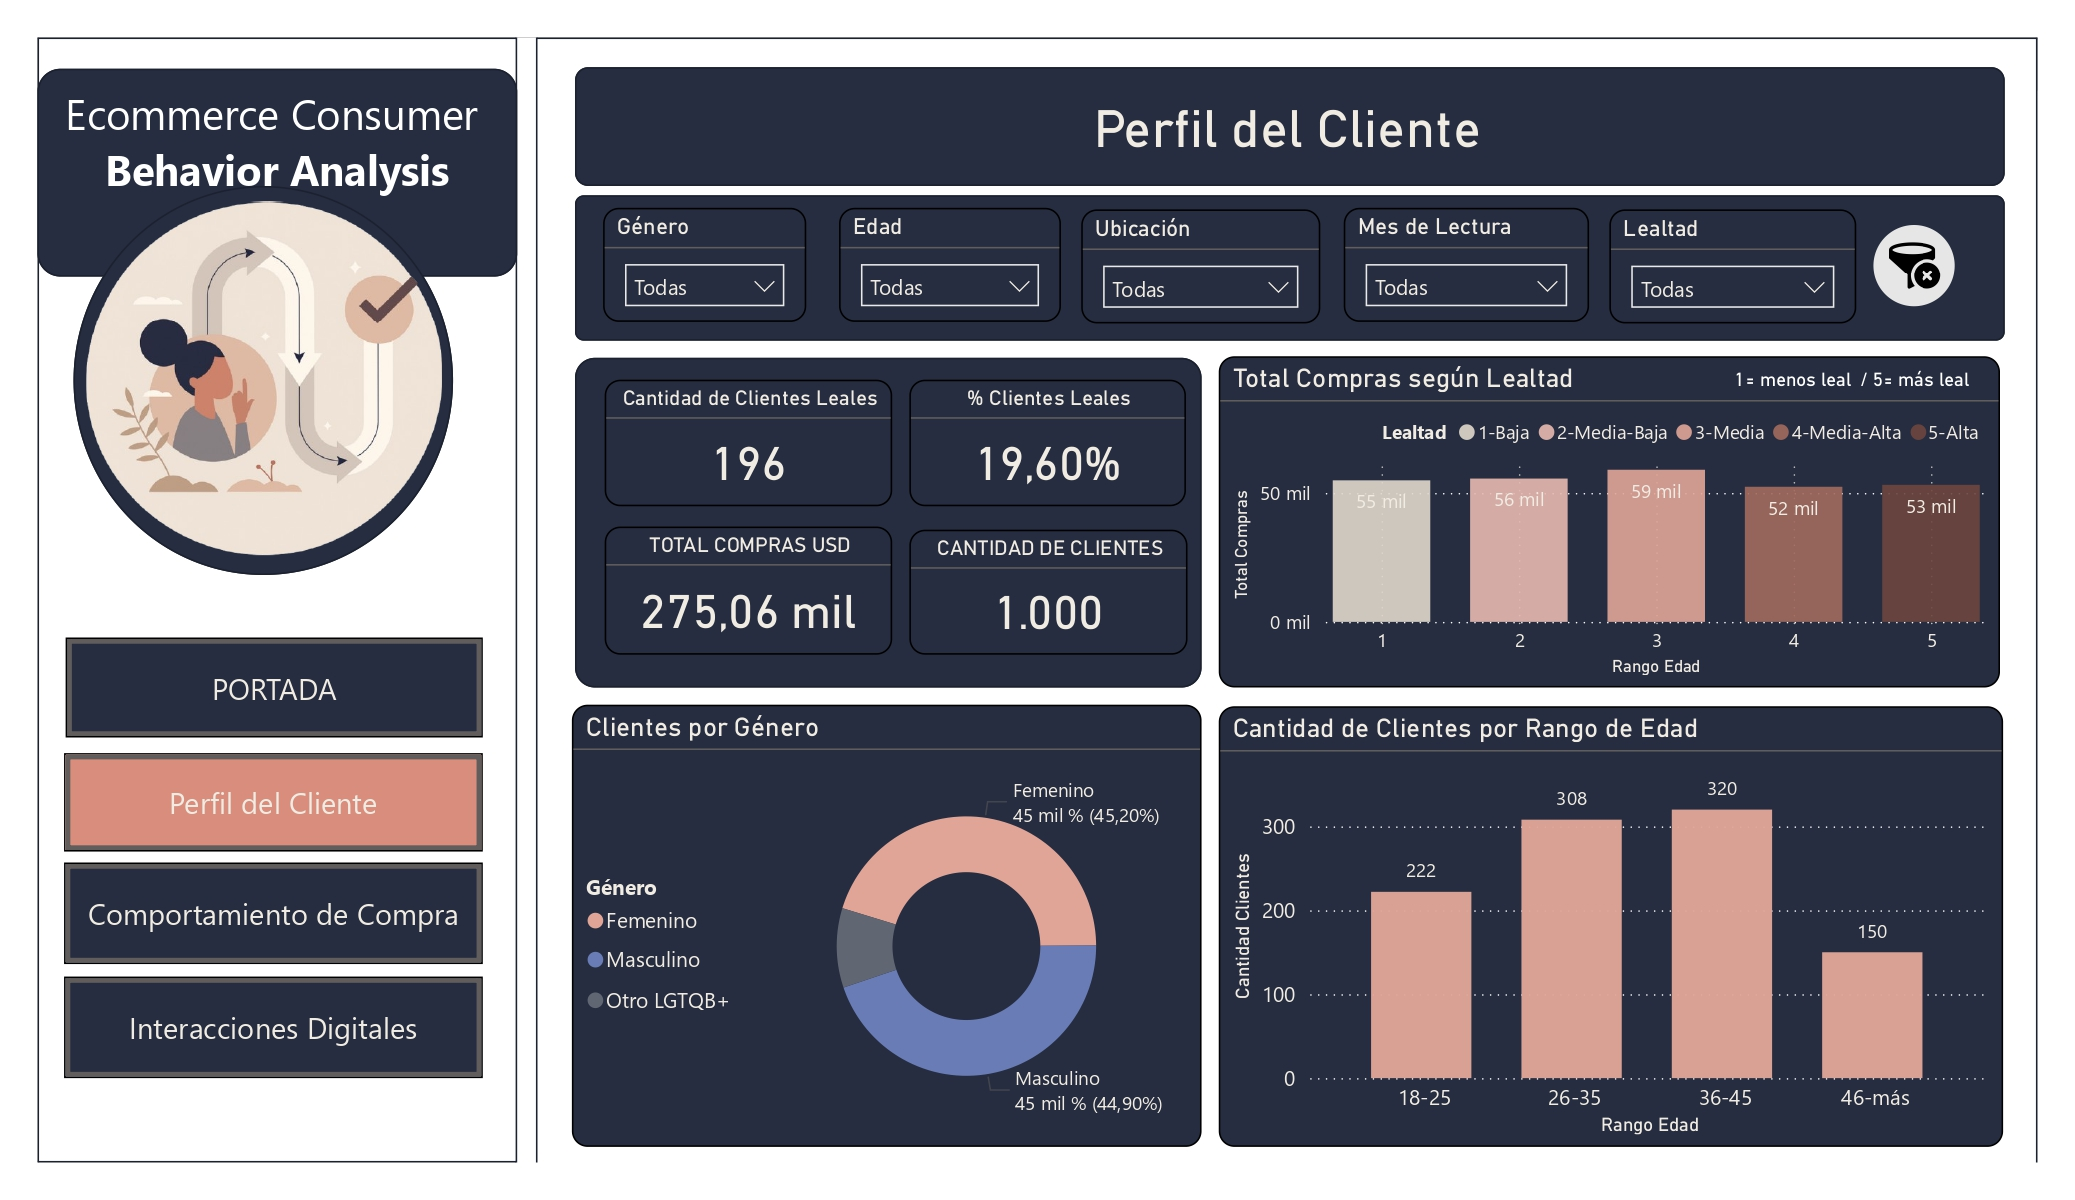
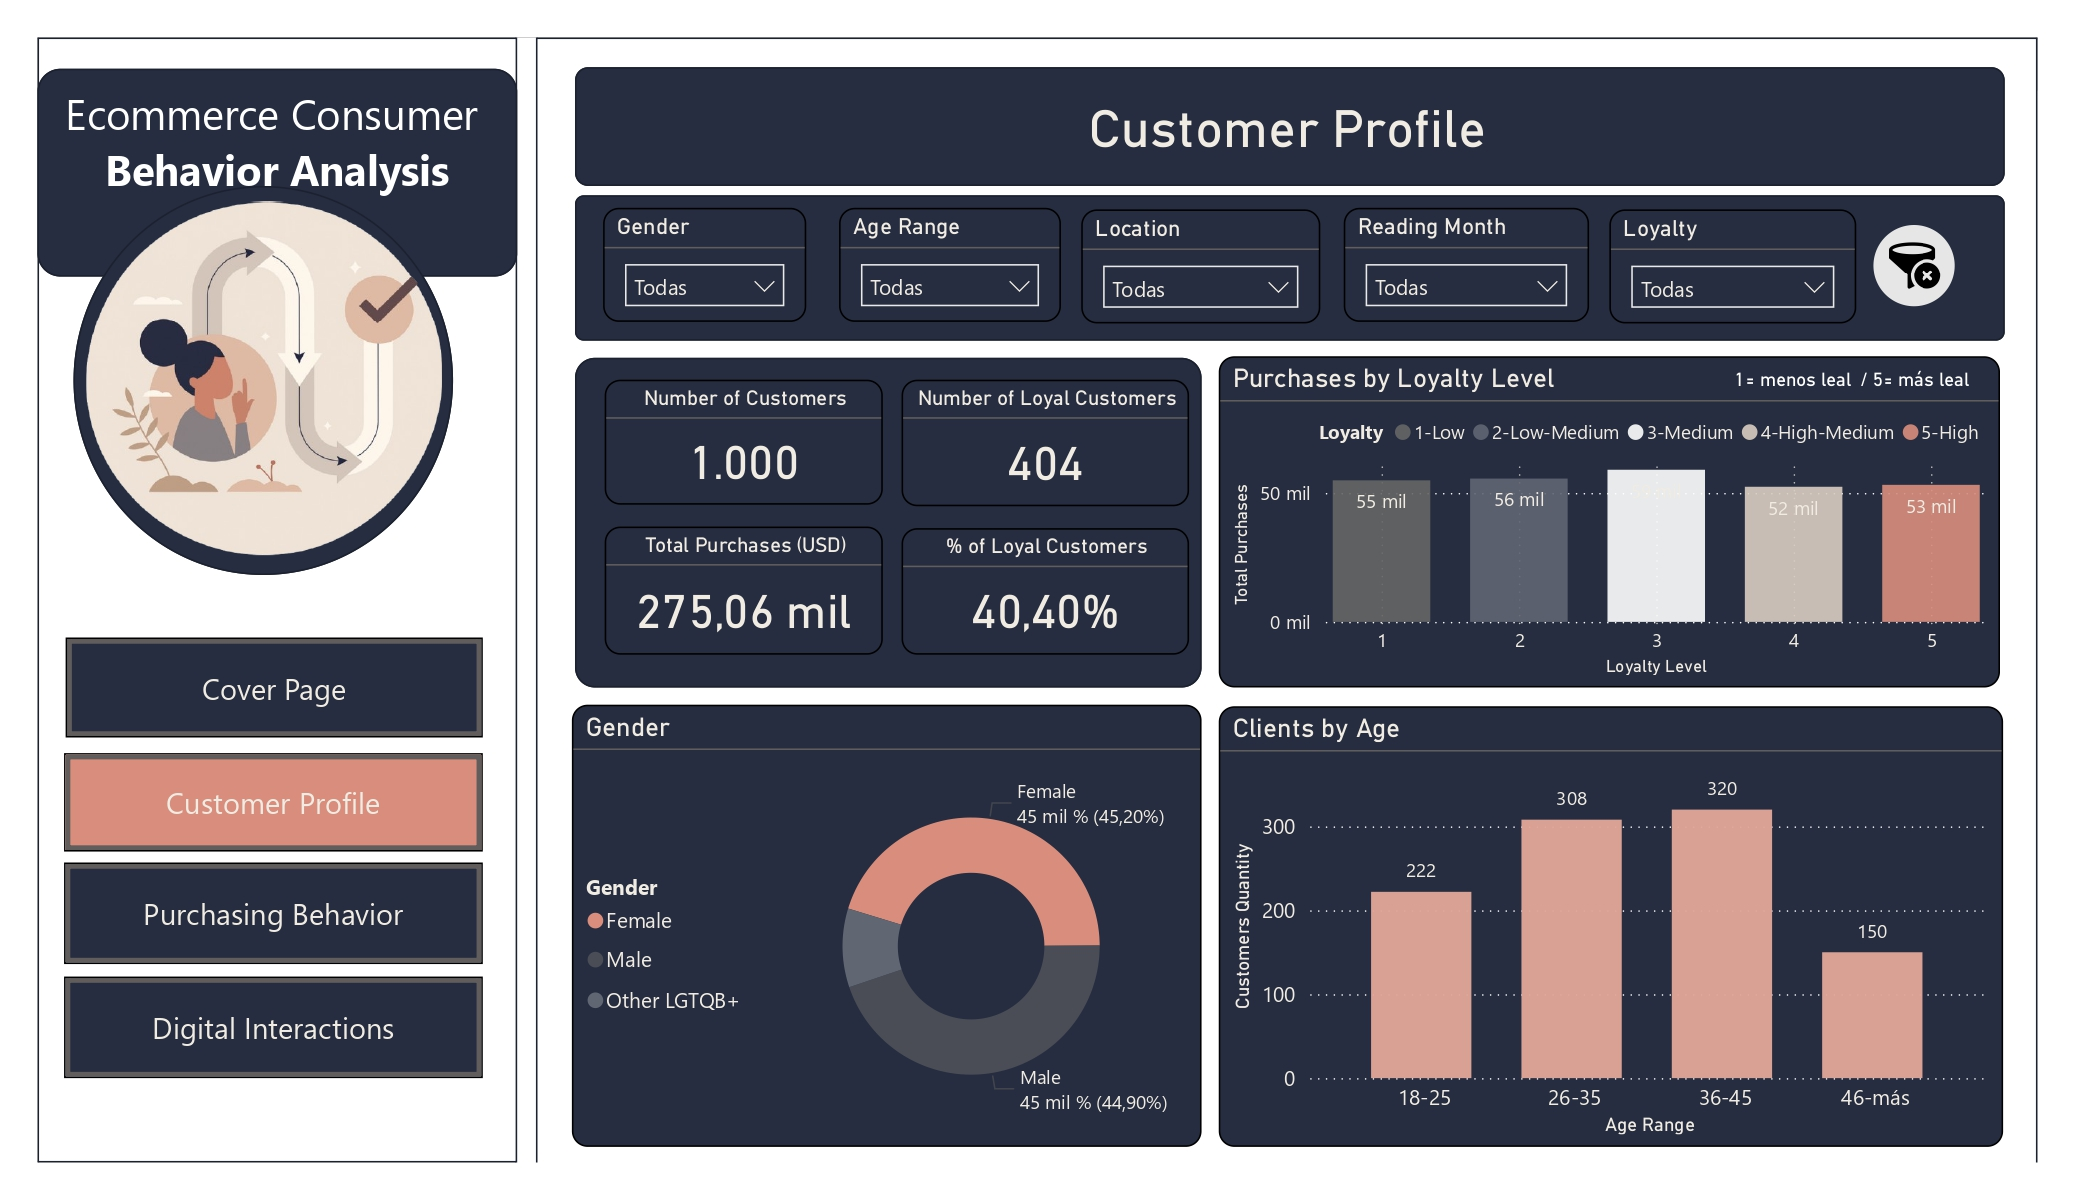
Readme and previews update

diff --git a/README.md b/README.md
@@ -35,10 +35,77 @@ It was built with a fully normalized dataset in Excel, custom KPIs using DAX, an
 
 ---
 
-## 📸 Dashboard Preview
+### 🔧 Data Normalization
+
+The original dataset contained redundant and denormalized structures, which could hinder performance and flexibility when building a relational data model. Therefore, a thorough normalization process was performed, resulting in a cleaner, more structured dataset.
+
+Key steps taken in the normalization:
+
+* **Splitting large tables**: The original dataset had multiple attributes grouped into a single table (e.g., client details, purchase records, product info). These were separated into distinct entities:
+
+  * `Clients`: Contains unique customer identifiers and demographic information.
+  * `Purchases`: Captures each transaction with purchase-specific details.
+  * `Products` / `Purchase Categories`: Includes item categories, subcategories, and pricing.
+  * `Interactions`: Captures engagement-related metrics (ads, satisfaction, research time).
+* **Eliminating repetition**: Repeated values such as gender, category names, payment methods, and countries were abstracted into dimension tables.
+* **Creating relationships**: Primary and foreign keys were defined (e.g., Customer\_ID, Product\_ID) to support referential integrity between tables.
+* **Date handling**: A separate **calendar table** was created using Power Query to ensure proper handling of time-based analysis (by day, month, quarter, year, etc.), which is fundamental for dynamic filtering and historical KPIs.
+
+This normalization enhances data integrity, improves performance within Power BI, and enables more accurate visual exploration and filtering through relationships defined in the data model.
+
+---
+
+### 🧹 Data Preparation & Transformation Highlights
+
+Several preprocessing and modeling tasks were carried out to ensure better visualization and analytical capabilities in Power BI. Below are the main transformations and decisions applied:
+
+#### ✅ Filters for dynamic reading
+
+* **Gender**: The original dataset included 8 gender categories. For clarity and usability, we consolidated them into three key groups: *Female*, *Male*, and *Other/LGBTQ+*. This grouping improves readability while preserving inclusion.
+* **Age**: Originally provided as a single integer value, age was transformed into **age ranges** for more practical filtering. Additionally, a **tooltip** was created to display detailed age information when hovering over the range chart.
+* **Location**: Since the original field contained city-level data, we first derived **country** and then grouped by **continent** in the dashboard to facilitate macro-level analysis aligned with the project’s objective.
+* **Loyalty Level**: We introduced a user-friendly loyalty segmentation from 1 to 5 and labeled each segment accordingly (*e.g., 1 - Low, 5 - High*) to allow easier reading and filtering.
+* **Month Filter & Reset Shortcut**: A slicer by month was added for temporal insights, and a *"Clear Filters"* button allows the user to reset the view and begin a new reading path.
+
+---
+
+#### 📦 Product Categorization
+
+* The original product category list was too granular, making the visuals cluttered. To address this:
+
+  * A **macro-category** column was created grouping original categories into broader segments (*e.g., “Home”, “Fashion”, “Technology”*).
+  * A **tooltip** was used to allow users to access the detailed (micro) categories by hovering over the macro view, preserving both detail and clarity.
+
+#### 📊 Enhanced navigation & layout
+
+* A **navigation menu** was placed at the top of each page, ensuring consistent access to every section of the report.
+* Layouts maintain visual consistency across pages to simplify user interaction with filters and visuals.
+* Each page was designed with clear KPIs and concise charts, optimized through **color gradients** (e.g., from pink to green in purchase volume) and distinct coloring by payment method or engagement type.
+
+#### 🧠 Tooltip Implementation
+
+* **Tooltip #1**: Linked to the Age Range chart, this view reveals individual age values within each range for more detailed understanding.
+* **Tooltip #2**: Used in the Purchase by Category chart to show all micro-categories, resolving issues caused by overloading the main chart with too many categories.
+
+---
+
+### 🖼 Dashboard Overview
+
+Below you can find an overview of the dashboard visuals.  
+For a full preview, access the complete PDF version:
+
+📄 **[View Dashboard Preview (PDF)](https://drive.google.com/file/d/1XS3hGomkOAfIDBgiUbECpNmpuo5puQKS/view?usp=sharing)**  
+
+
+#### 👤 Customer Profile Page
+Focuses on understanding who the buyers are based on age, gender, location, and loyalty.
+
+---
+
+## 📸 Dashboard Previews
 
 ### 🧭 Cover Page
-![Dashboard Cover](assets/dashboard-cover.png.jpg)
+![Dashboard Cover](assets/dashboard-cover.jpg)
 
 ### 👥 Customer Profile
 ![Customer Profile](assets/customer-profile.jpg)
@@ -51,9 +118,20 @@ It was built with a fully normalized dataset in Excel, custom KPIs using DAX, an
 
 ---
 
+### 📊 Key Metrics
+
+- 🎯 Total Purchases
+- 🛒 Average Ticket Size
+- 📅 Day with Most Purchases
+- 💳 Top Payment Methods
+- 📈 Engagement Level Score
+- 🎯 Loyalty Level Distribution
+
+---
+
 ## 📎 Portfolio Link
 
-- [🔗 View Power BI Dashboard, Database & PDF on Google Drive](https://drive.google.com/drive/folders/1AWurUWZGMncOpsBbqj6KEidqW3uA22Se)
+- [🔗 View PDF & Power BI on Google Drive](https://drive.google.com/file/d/1C_-P62q6jKNuokIZLGhFoteir2ee4XJS/view?usp=drive_link)
 
 ---
 
@@ -75,4 +153,18 @@ It was built with a fully normalized dataset in Excel, custom KPIs using DAX, an
 
 ---
 
+### ⚠ Limitations
+
+- The dataset contains simulated/aggregated data and may not reflect real-world behavior with full accuracy.
+- The engagement metrics are self-reported, not tracked behaviorally.
+- Some features had missing or ambiguous values, which required generalization (e.g., gender or location grouping).
+
+
 ⭐ *Thanks for visiting! Feel free to explore the dashboard and reach out for feedback or collaboration.*
+
+
+### 📚 References
+
+- Dataset provided by XYZ Ecommerce (or Kaggle, etc.)
+- Power BI Calendar table logic from official Microsoft Docs.
+- Icons used from [Flaticon.com](https://www.flaticon.com)
